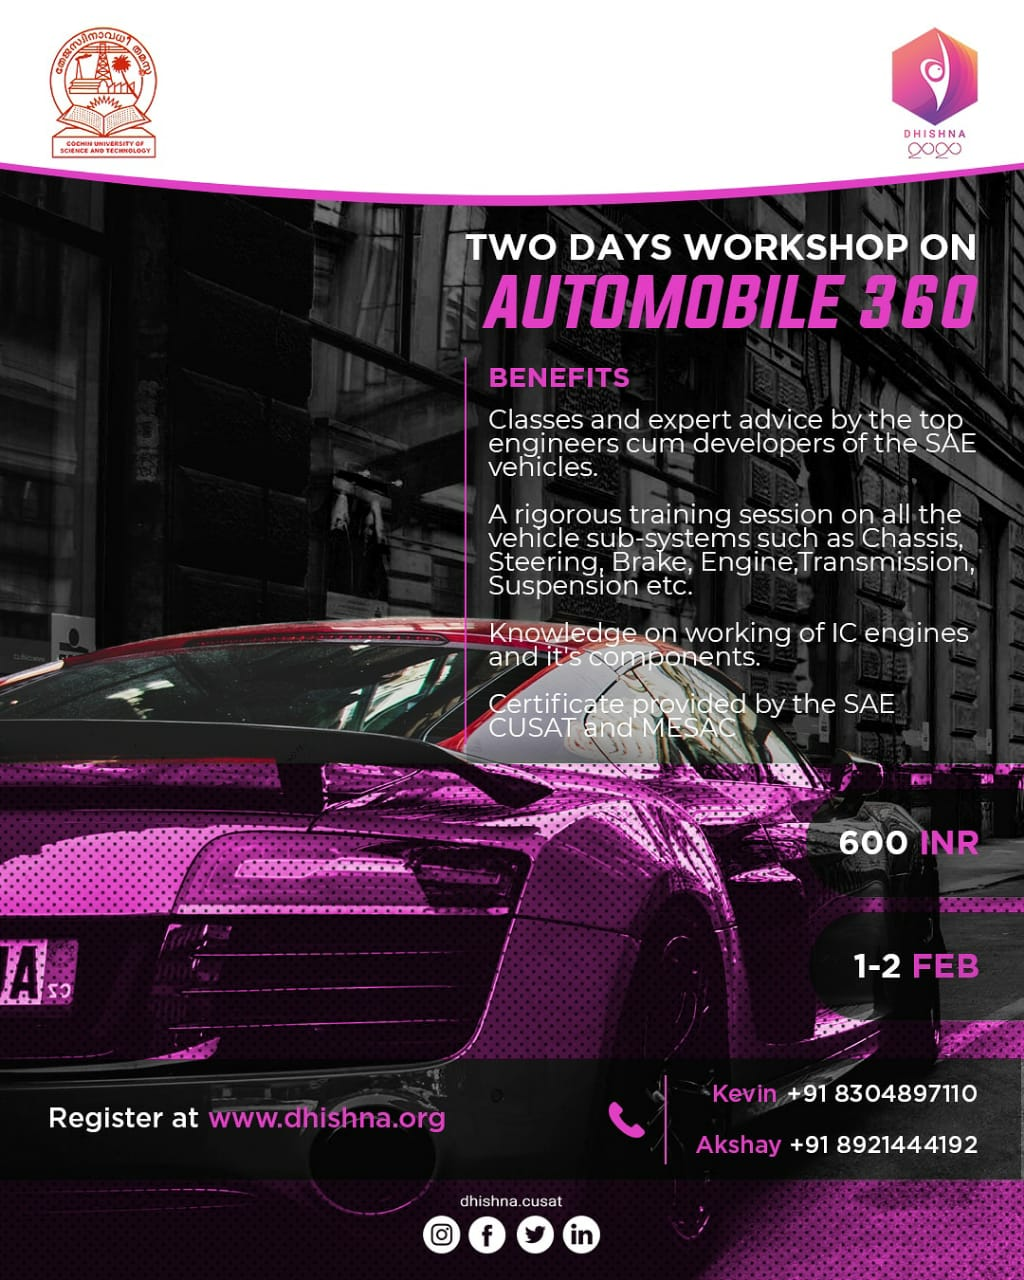
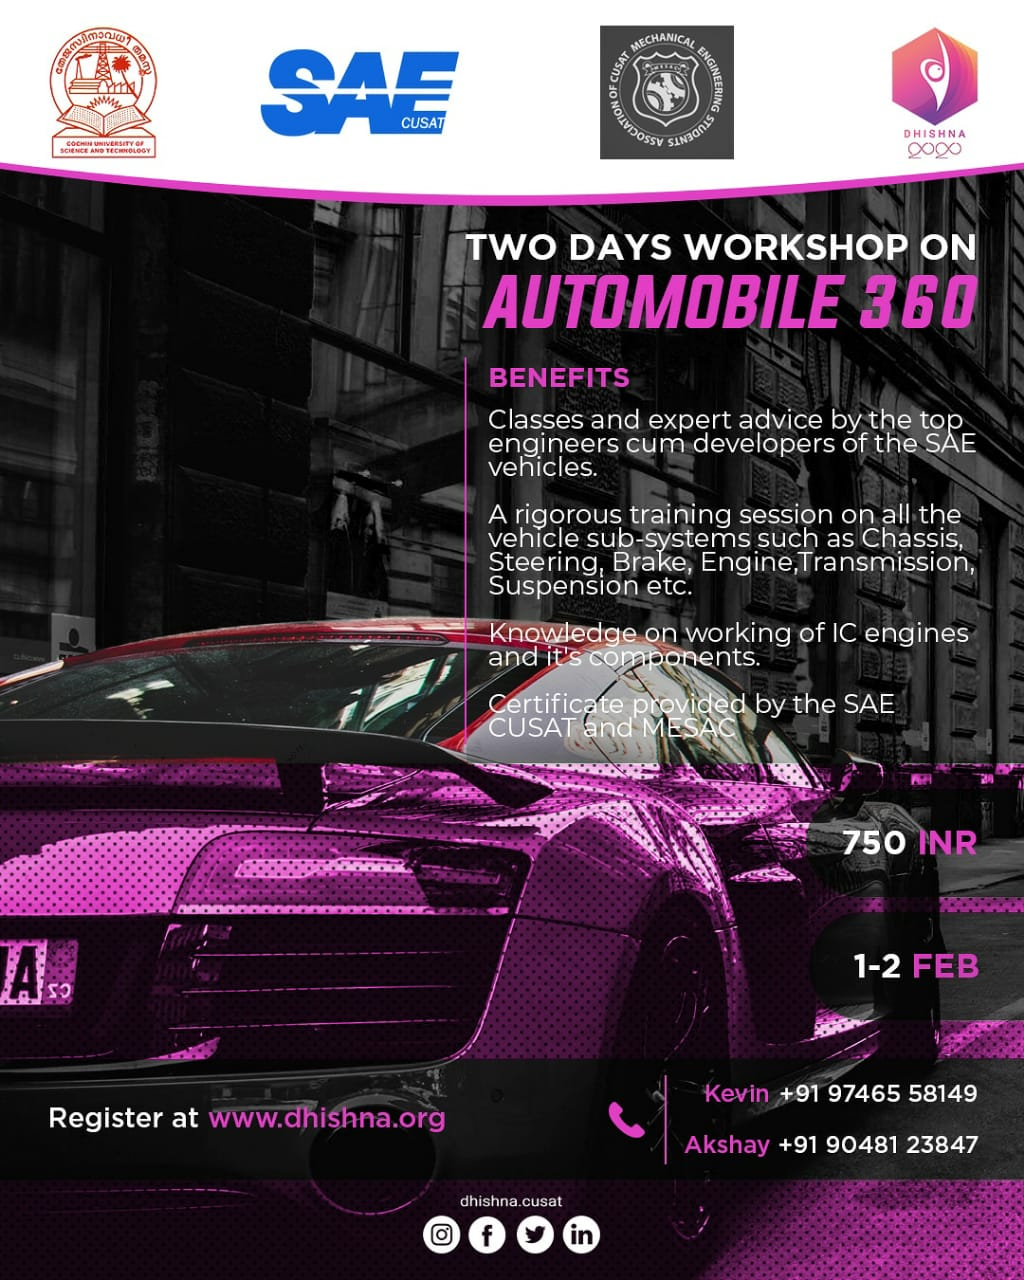
workshop change

diff --git a/scripts/insert_to_Workshop.js b/scripts/insert_to_Workshop.js
@@ -297,7 +297,7 @@ var data = [
         contact:[
                     { 
                         name:"Kevin",
-                        phone:"974658149"
+                        phone:"9746558149"
                     },
 
                     { 
